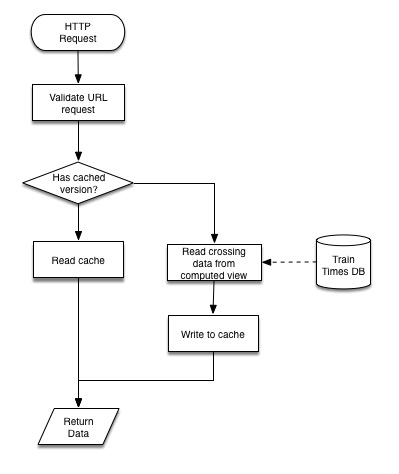
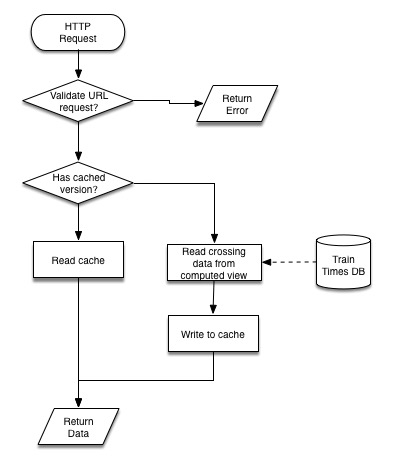
Updated designs. Moved table of contents elemnts around in the readme. Updated the docs for the API

Changed region(s): [[0.0602, 0.1181, 0.3609, 0.2658], [0.4812, 0.1772, 0.7218, 0.2658]]

diff --git a/Documents/API/Technical overview.md b/Documents/API/Technical overview.md
@@ -1,17 +1,39 @@
-**V 1.0.0**
+**V 1.1.0**
 # Technical Overview
 
 ### Purpose
 The API is the part that will read the data from the calculated data from the database and return it to the user. The type and data range of the data will be defined in the URL of the request.
 
-### System
+### Implementation
+#### General
 The system will be written in PHP using the #RyanLibraryNameHere as a base framework. This will then be served by the nginx docker container. PHP will recieve a HTTP and which will load up the frame, this will then route the request to the correct peice of code base of the router deffintion. After that the code will connect to the database and the code will decide what view it needs to read the data frame. Finally it will return the data back to the user in a defined format.
 
+#### Errors
 The API also defines what should happen if there is a error. If it is a catchable error then it should return an error code along with a message. If its an uncathble error it should return the unknown error code and the PHP error. This is defined further in the API document.
 
-### Testing
+#### Testing
  #RyanPutThingsHerePlease
 
 ### Flow Chart
+##### HTTP Request
+The system will start when when a HTTP request is made to the server. The server will then load up PHP and pass the request data long
+
+##### Validate URL request
+The next phase is the framework will verify the URL and find the correct piece of code to run it.
+
+##### Has cached version?
+Next it checks to see if theres already a cached version of the request. Different requests will have different caching lengths. Stale caches will be automatically removed by the library.
+
+##### Read Cache
+Assuming is to does have a cached version it needs to read this and pass this on to the returning data phase.
+
+##### Read crossing data from computed view
+If the server does not already have the data cached it needs to connect to the database and read the data from a table. No further processing of data needs to be done after this because all of the predicting logic will be done in the database.
+
+##### Write to cache
+Once the request has been returned from the database it should be cached for quicker access in the future.
+
+##### Return data
+Finally the data shoudl be wrapped correct in the API wrapper and returned to the browser in JSON format.
 
 ![image](../images/System designs/Flow Diagram - Section 4.jpg)

diff --git a/Readme.md b/Readme.md
@@ -11,10 +11,10 @@ We will track the trains. We will map the crossing. We will prodict the future!
 * System:
 	* [Top level overview](Documents/Top level overview.md)
 	* [Technical overview](Documents/Technical overview.md)
+* Development:
+	* [Environment](Documents/environment.md)
+	* [Workflow](Documents/Development workflow.md)
 * Application:
-	* Development:
-		* [Environment](Documents/environment.md)
-		* [Workflow](Documents/Development workflow.md)
 	* Data Collection
 		* [Data Sources](Documents/Data Collection/Data Sources.md)
 		* [Technical overview](Documents/Data Collection/Technical overview.md)

diff --git a/Documents/Web App/Technical overview.md b/Documents/Web App/Technical overview.md
@@ -1,7 +1,7 @@
-**V 1.0.0**
+**V 1.0.1**
 # Technical Overview
 
-### How it works
+### Implementation
 #### General
 The site will use AngularJS to run the webpage. SCSS to build the style sheets. And grunt which will automatically build the style sheets and do any maniplucation on the resources.
 
